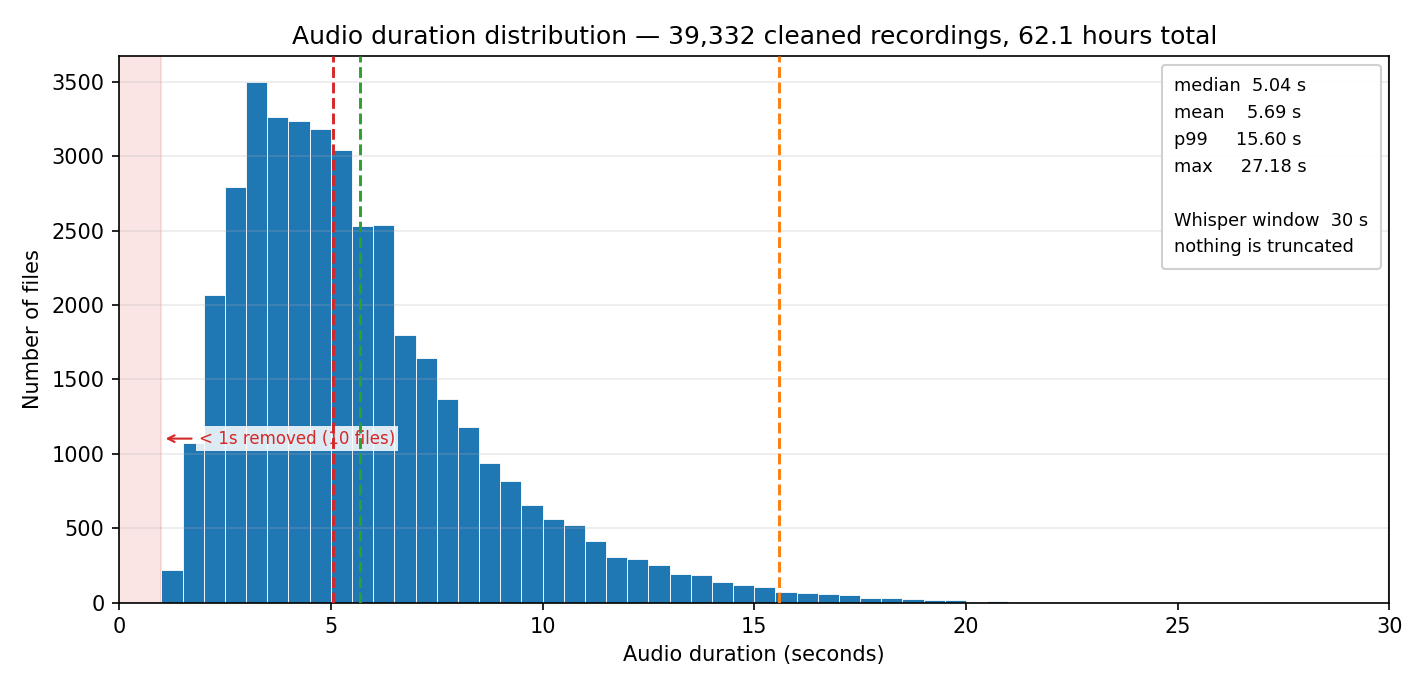
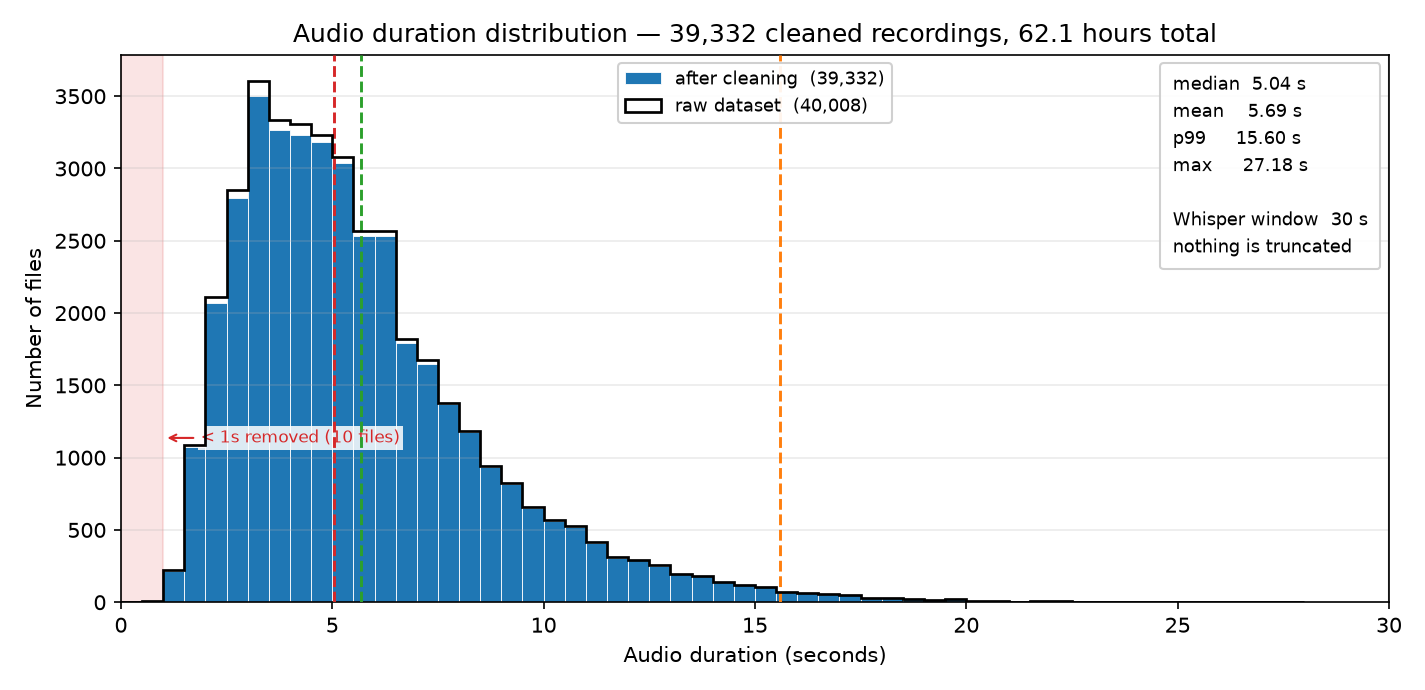
Task 1: raw vs cleaned distributions, verified statistics, instability analysis

diff --git a/plot_dataset.py b/plot_dataset.py
@@ -51,6 +51,31 @@ def load(path):
     return dur, chars, words
 
 
+def load_raw(raw_dir):
+    """
+    Durations and transcripts straight from the parquet shards, before any cleaning.
+
+    The brief asks for an investigation of the dataset as given, so the raw distribution is the
+    one being investigated; the cleaned distribution is drawn over it to show what the cleaning
+    actually changed. Only the metadata columns are read -- the audio bytes are never touched,
+    so this costs seconds rather than the minutes a full load would take.
+    """
+    import glob
+    import pandas as pd
+
+    files = sorted(glob.glob(os.path.join(raw_dir, "**", "train-*.parquet"), recursive=True))
+    files = [f for f in files if "investigation_results" not in f.replace("\\", "/")]
+    if not files:
+        raise FileNotFoundError(f"no train-*.parquet found under {raw_dir!r}")
+    df = pd.concat([pd.read_parquet(f, columns=["text", "duration"]) for f in files],
+                   ignore_index=True)
+    print(f"[RAW] {len(files)} shards, {len(df):,} records")
+    txt = df["text"].fillna("").astype(str)
+    return (pd.to_numeric(df["duration"], errors="coerce").to_numpy(),
+            txt.str.len().to_numpy(),
+            txt.str.split().str.len().to_numpy())
+
+
 def stat_box(ax, lines, loc="upper right"):
     """
     Summary statistics as a corner box rather than rotated labels on the vertical lines.
@@ -59,14 +84,30 @@ def stat_box(ax, lines, loc="upper right"):
     5.04 s and the mean at 5.69 s those labels landed on top of each other and on the bars
     behind them. A box keeps the numbers legible and leaves the distribution unobstructed.
     """
-    ax.legend(handles=[plt.Line2D([], [], linestyle="none", label=t) for t in lines],
-              loc=loc, fontsize=8.5, handlelength=0, handletextpad=0,
-              framealpha=0.92, borderpad=0.7)
+    # Added via add_artist so it coexists with a real legend on the same axes; a second
+    # ax.legend() call would silently replace the first.
+    box = ax.legend(handles=[plt.Line2D([], [], linestyle="none", label=t) for t in lines],
+                    loc=loc, fontsize=8.5, handlelength=0, handletextpad=0,
+                    framealpha=0.92, borderpad=0.7)
+    ax.add_artist(box)
+    return box
 
 
-def fig_duration(dur, outdir):
+def overlay_raw(ax, raw, bins, label):
+    """Draw the pre-cleaning distribution as an outline behind the cleaned bars."""
+    if raw is None:
+        return
+    ax.hist(raw[~np.isnan(raw)] if raw.dtype.kind == "f" else raw,
+            bins=bins, histtype="step", color="black", linewidth=1.3, label=label, zorder=6)
+
+
+def fig_duration(dur, outdir, raw_dur=None):
     fig, ax = plt.subplots(figsize=(9.5, 4.6))
-    ax.hist(dur, bins=np.arange(0, 28.5, 0.5), color=BLUE, edgecolor="white", linewidth=0.4)
+    bins = np.arange(0, 28.5, 0.5)
+    ax.hist(dur, bins=bins, color=BLUE, edgecolor="white", linewidth=0.4,
+            label=f"after cleaning  ({len(dur):,})")
+    overlay_raw(ax, raw_dur, bins,
+                f"raw dataset  ({0 if raw_dur is None else len(raw_dur):,})")
     ax.set_xlim(0, WHISPER_WINDOW_S)
     for x, colour in ((float(np.median(dur)), RED),
                       (float(dur.mean()), GREEN),
@@ -92,6 +133,8 @@ def fig_duration(dur, outdir):
         f"Whisper window  {WHISPER_WINDOW_S:.0f} s",
         "nothing is truncated",
     ])
+    if raw_dur is not None:
+        ax.legend(loc="upper center", fontsize=8.5, framealpha=0.92)
 
     ax.set_xlabel("Audio duration (seconds)")
     ax.set_ylabel("Number of files")
@@ -103,22 +146,32 @@ def fig_duration(dur, outdir):
     plt.close(fig)
 
 
-def fig_transcript(chars, words, outdir):
+def fig_transcript(chars, words, outdir, raw_chars=None, raw_words=None):
     fig, axes = plt.subplots(1, 2, figsize=(11.5, 4.3))
+    cbins, wbins = np.arange(0, 205, 5), np.arange(0, 42, 1)
 
-    axes[0].hist(chars, bins=np.arange(0, 205, 5), color=BLUE, edgecolor="white", linewidth=0.4)
+    axes[0].hist(chars, bins=cbins, color=BLUE, edgecolor="white", linewidth=0.4,
+                 label=f"after cleaning ({len(chars):,})")
+    overlay_raw(axes[0], raw_chars, cbins,
+                f"raw ({0 if raw_chars is None else len(raw_chars):,})")
     axes[0].set_xlabel("Transcript length (characters)")
     axes[0].set_title("Characters")
     axes[0].axvline(float(np.median(chars)), color=RED, ls="--", lw=1.4)
     stat_box(axes[0], [f"median  {np.median(chars):.0f}", f"mean    {chars.mean():.1f}",
                        f"p99     {np.percentile(chars, 99):.0f}", f"max     {chars.max()}"])
 
-    axes[1].hist(words, bins=np.arange(0, 42, 1), color=GREEN, edgecolor="white", linewidth=0.4)
+    axes[1].hist(words, bins=wbins, color=GREEN, edgecolor="white", linewidth=0.4,
+                 label=f"after cleaning ({len(words):,})")
+    overlay_raw(axes[1], raw_words, wbins,
+                f"raw ({0 if raw_words is None else len(raw_words):,})")
     axes[1].set_xlabel("Transcript length (words)")
     axes[1].set_title("Words")
     axes[1].axvline(float(np.median(words)), color=RED, ls="--", lw=1.4)
     stat_box(axes[1], [f"median  {np.median(words):.0f}", f"mean    {words.mean():.1f}",
                        f"p99     {np.percentile(words, 99):.0f}", f"max     {words.max()}"])
+    if raw_chars is not None:
+        for ax in axes:
+            ax.legend(loc="upper center", fontsize=8)
 
     for ax in axes:
         ax.set_ylabel("Number of transcripts")
@@ -174,6 +227,9 @@ def fig_speech_rate(dur, chars, outdir):
 def main():
     p = argparse.ArgumentParser()
     p.add_argument("--csv", default="data/neyshekar_cleaned.csv")
+    p.add_argument("--raw_dir", default=os.environ.get("NEYSHEKAR_RAW_DIR"),
+                   help="Folder with the raw parquet shards. When given, the pre-cleaning "
+                        "distribution is drawn over the cleaned one for comparison.")
     p.add_argument("--outdir", default="figures")
     args = p.parse_args()
     os.makedirs(args.outdir, exist_ok=True)
@@ -182,8 +238,12 @@ def main():
     cps = chars / dur
     n = len(dur)
 
-    fig_duration(dur, args.outdir)
-    fig_transcript(chars, words, args.outdir)
+    raw_dur = raw_chars = raw_words = None
+    if args.raw_dir:
+        raw_dur, raw_chars, raw_words = load_raw(args.raw_dir)
+
+    fig_duration(dur, args.outdir, raw_dur)
+    fig_transcript(chars, words, args.outdir, raw_chars, raw_words)
     fig_speech_rate(dur, chars, args.outdir)
 
     def line(label, arr, fmt="{:.2f}"):
@@ -206,6 +266,24 @@ def main():
           f"({100 * dur.max() / WHISPER_WINDOW_S:.0f}% of Whisper's window)")
     print(f"  longest transcript         {chars.max():>8,} characters   "
           f"(well inside the 448-token label limit)")
+
+    if raw_dur is not None:
+        rd = raw_dur[~np.isnan(raw_dur)]
+        print(f"\n{'=' * 96}\n  RAW vs CLEANED — what the cleaning actually changed\n{'=' * 96}")
+        print(f"  {'':<26}{'raw':>14}{'cleaned':>14}{'change':>14}")
+        print("  " + "-" * 68)
+        for label, a, b, fmt in (("records", len(raw_dur), n, "{:,.0f}"),
+                                 ("mean duration (s)", rd.mean(), dur.mean(), "{:.2f}"),
+                                 ("median duration (s)", np.median(rd), np.median(dur), "{:.2f}"),
+                                 ("max duration (s)", rd.max(), dur.max(), "{:.2f}"),
+                                 ("mean transcript (chars)", raw_chars.mean(), chars.mean(), "{:.1f}"),
+                                 ("mean transcript (words)", raw_words.mean(), words.mean(), "{:.1f}")):
+            print(f"  {label:<26}{fmt.format(a):>14}{fmt.format(b):>14}"
+                  f"{fmt.format(b - a):>14}")
+        print("\n  Transcript length grows slightly because digits were spelled out:")
+        print("  a numeral like '۱۲' becomes 'دوازده', which is longer as text but matches "
+              "the audio.")
+
     print(f"\n  Figures written to {args.outdir}/\n")
 
 

diff --git a/docs/task1_dataset_investigation.md b/docs/task1_dataset_investigation.md
@@ -134,9 +134,33 @@ This is the main way Task 1 earns its place in the project. Neither of these two
 
 ## 5. Distribution analysis
 
-All figures are produced by `plot_dataset.py`, which reads the cleaned dataset and prints the
-same statistics it draws, so the numbers in the text and the numbers in the plots come from one
-computation rather than two.
+All figures are produced by `plot_dataset.py`, which prints the same statistics it draws, so the
+numbers in the text and the numbers in the plots come from one computation rather than two.
+
+**Both distributions are shown.** The brief asks for an investigation of the dataset before any
+training code is written, so the subject is the corpus as delivered — that is the black outline
+on each histogram. The filled bars are the corpus after cleaning, which is what the model
+actually saw. Plotting only the cleaned version would show the result of my own work rather than
+the data under investigation; plotting only the raw version would describe a corpus that was
+never trained on. Overlaying them answers a question neither can answer alone: whether the
+cleaning distorted the data.
+
+It did not. The two outlines are nearly indistinguishable, which is the expected consequence of
+removing 676 records out of 40,008 — 1.7%, drawn almost entirely from duplicates rather than
+from any particular region of the distribution:
+
+| | raw (40,008) | cleaned (39,332) | change |
+|---|---:|---:|---:|
+| mean duration | 5.67 s | 5.69 s | +0.01 s |
+| median duration | 5.04 s | 5.04 s | 0.00 s |
+| max duration | 27.18 s | 27.18 s | 0.00 s |
+| mean transcript (chars) | 53.9 | 54.3 | +0.4 |
+| mean transcript (words) | 10.2 | 10.3 | +0.1 |
+
+Removing 1.7% of the corpus moved the mean duration by 0.01 s and the median by nothing at all.
+The cleaning was targeted rather than a reshaping of the corpus. Had the outlines diverged, that
+would have been a warning that the filtering had introduced a bias worth examining before
+training on the result — which is the reason to draw both rather than assume.
 
 ### Audio duration
 
@@ -184,6 +208,14 @@ memory budget is the same whether the audio is 2 seconds or 20.
 
 The same right-skewed shape, which is expected: transcript length is essentially duration
 multiplied by speech rate, so it inherits the duration distribution's form.
+
+Here the raw and cleaned outlines differ very slightly, and in a direction worth noting: the
+cleaned transcripts are marginally *longer* on average, 54.3 characters against 53.9. That is
+not an error. Number lexicalisation replaced each numeral with its spoken form — `۱۲` became
+`دوازده` — which adds characters to the text while making it a more faithful record of what was
+actually said. A cleaning step that shortened transcripts would deserve scrutiny; one that
+lengthens them by spelling out numbers is doing exactly what it was written to do, and the
++0.4 character shift is the visible trace of the 1,191 rows that contained digits.
 
 The relevant ceiling here is the decoder's, not the encoder's. Whisper generates at most 448
 tokens. The longest transcript in the corpus is 251 characters, which for Persian subword
